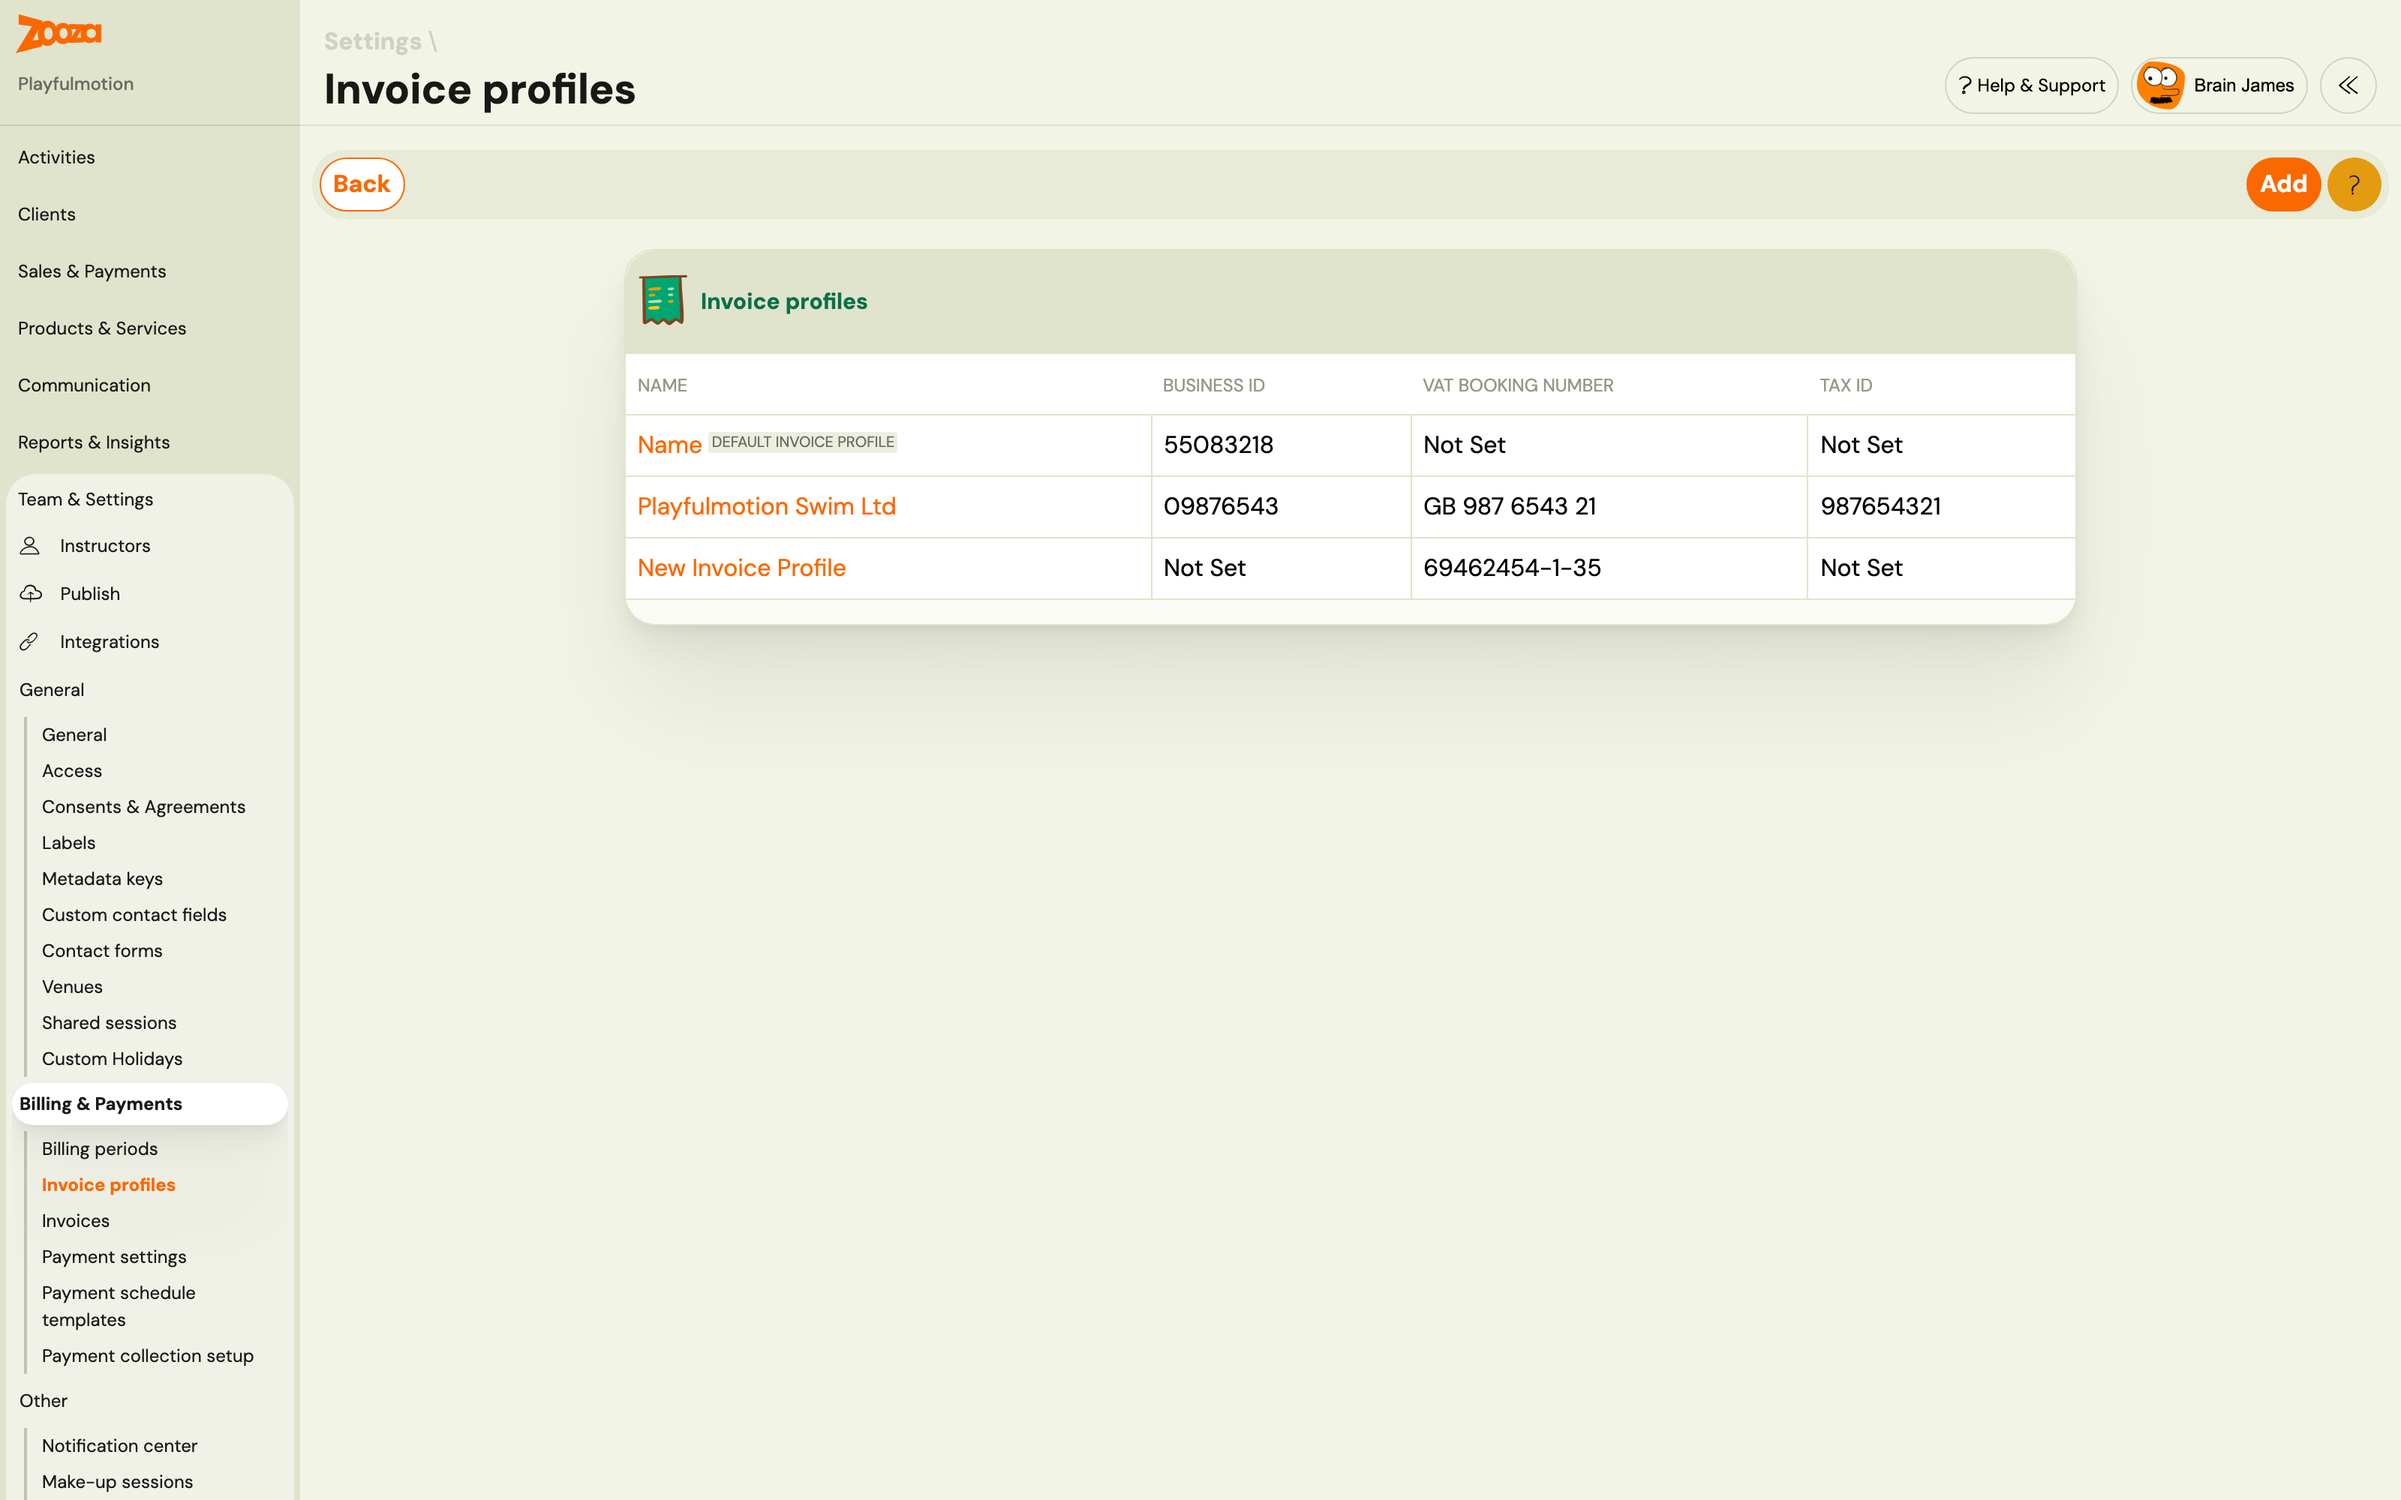
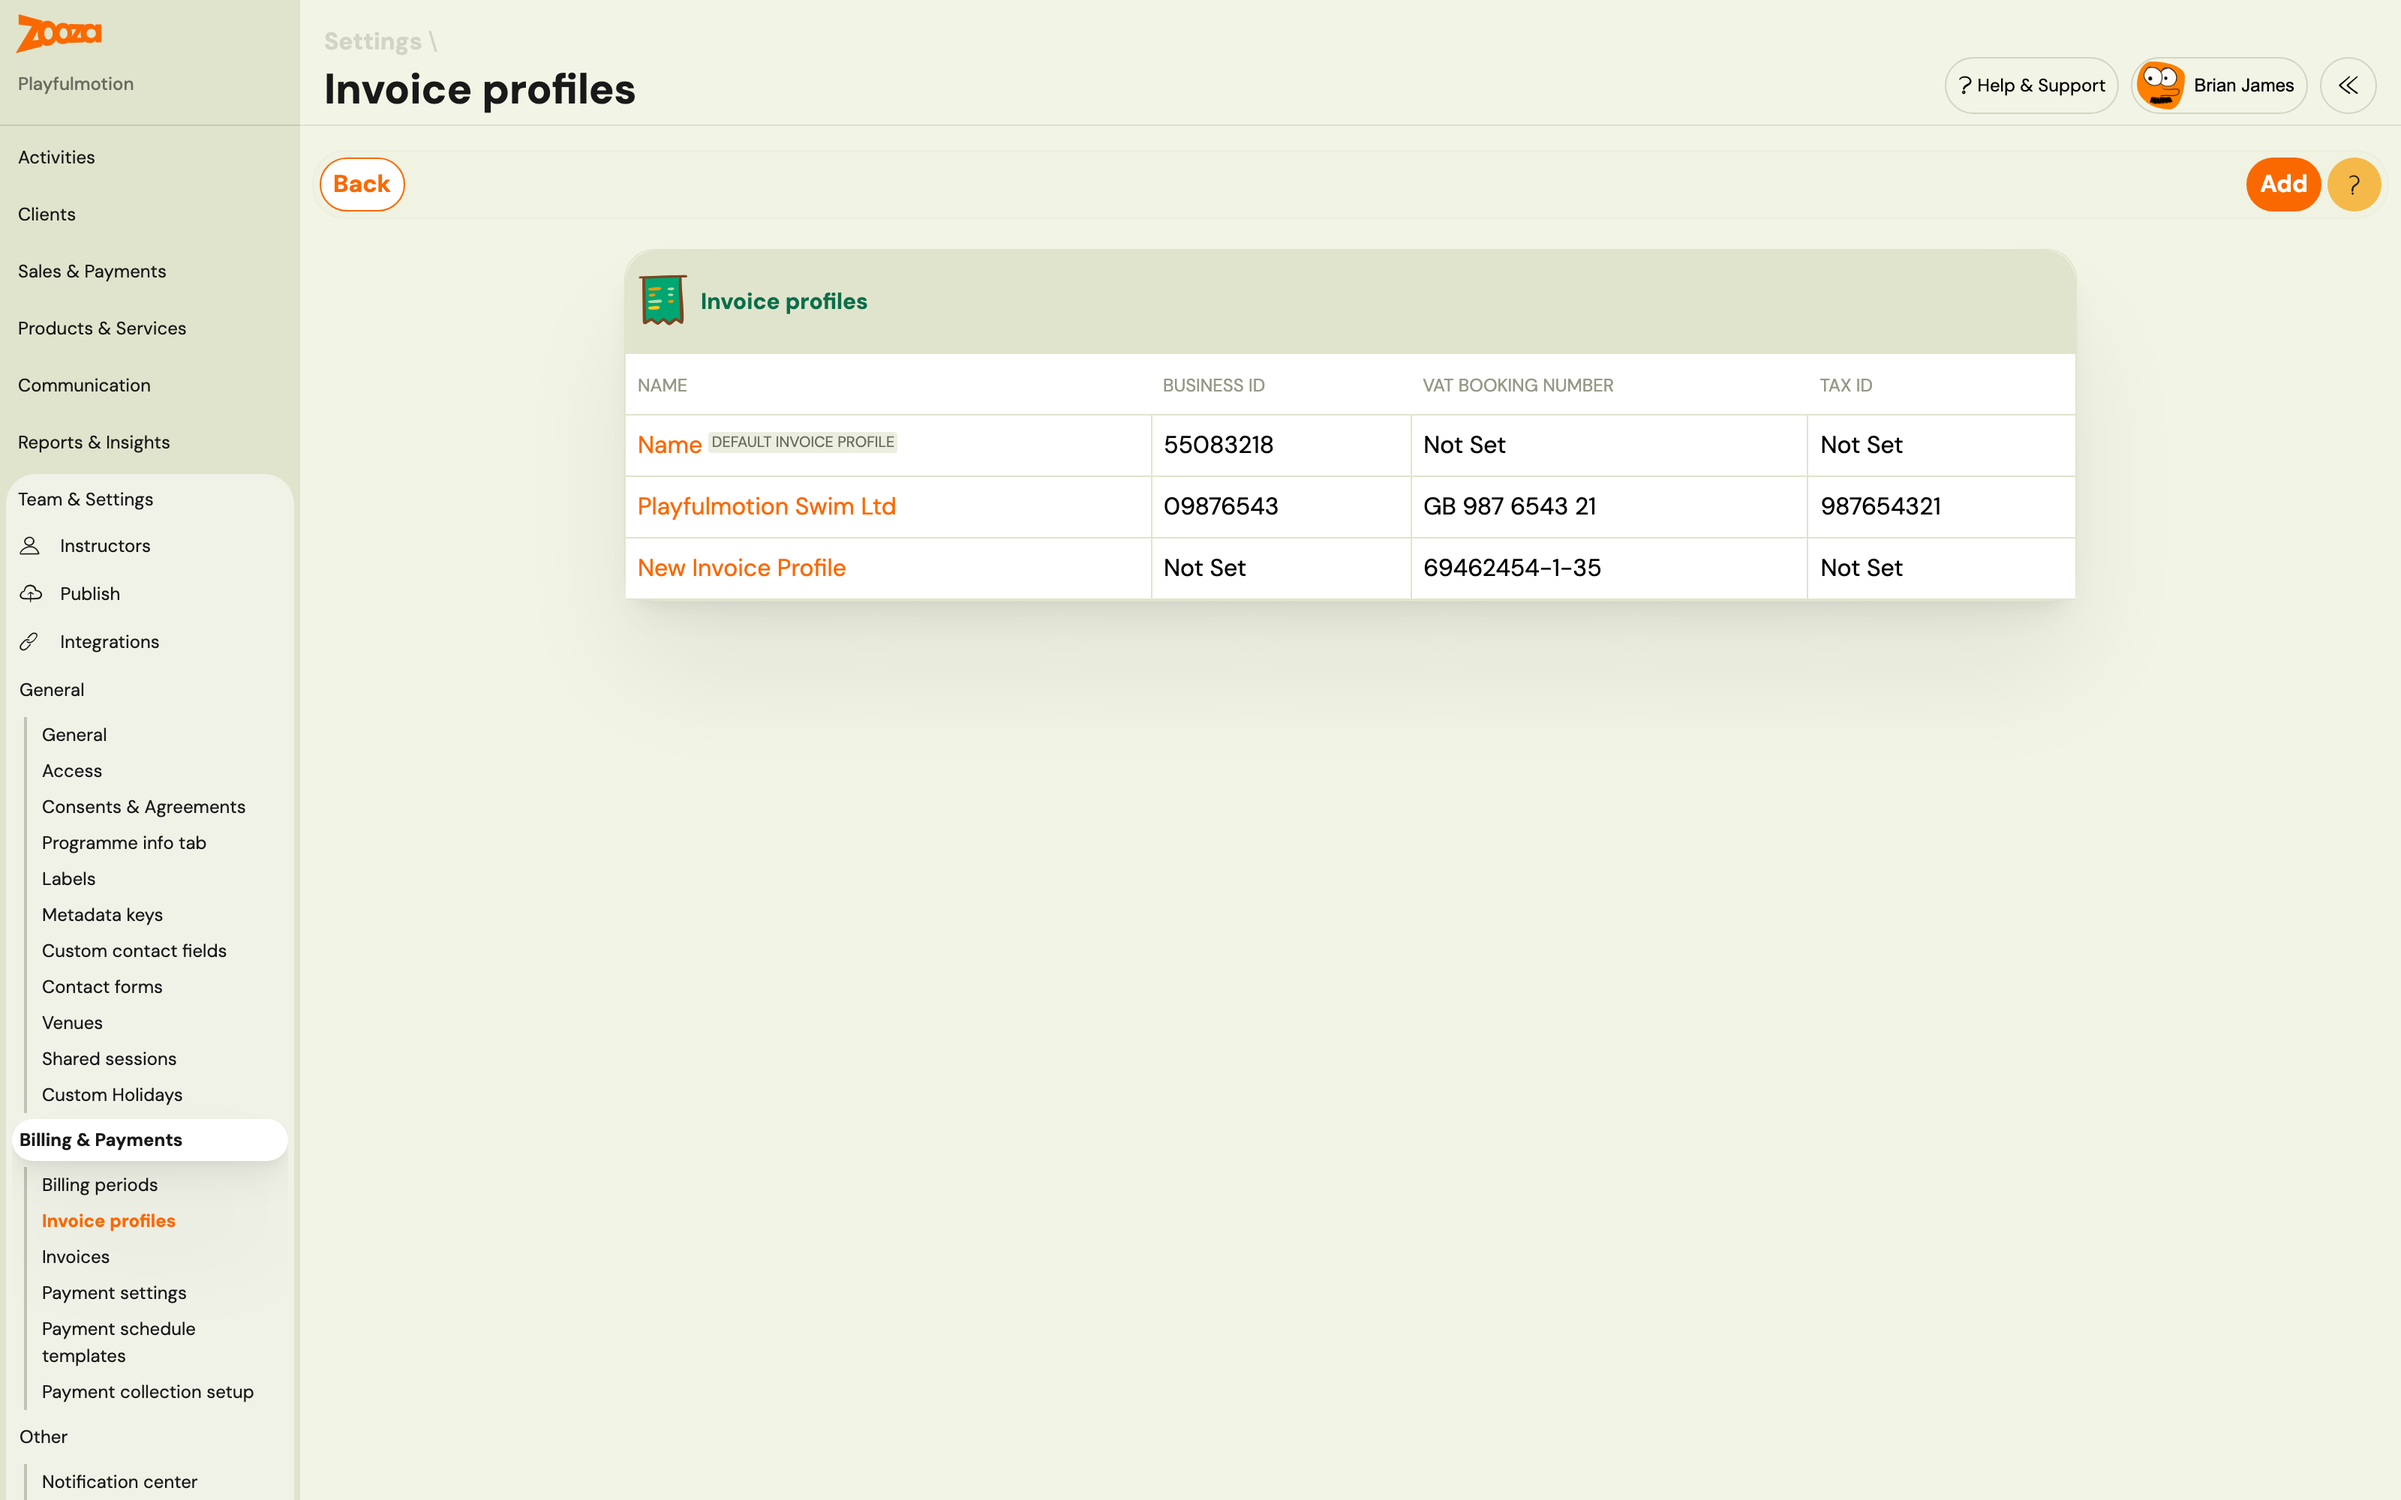
docs: reshoot the invoice profiles list, and three navigation paths corrected against the live menu
Replaced the invoice profiles screenshot from the live account and rewrote its
alt text to what the list actually shows - business ID, VAT booking number,
tax ID, and which profile is the default.

Three paths fixed now that the real menu is in front of me rather than being
remembered:

- "Settings - Billing" does not exist; it is Settings - Billing & Payments,
  and it has six entries, not the three the article listed.
- "Payments - Invoices" is Settings - Billing & Payments - Invoices.
- "Allow refund requests" is a field on Settings - General, not a subpage of
  it. That one was mine, written last week from the strings.

Also removed a screenshot that had been sitting under "Where to find billing
settings" showing the Invoice Line Types panel - wrong picture, wrong section,
and its alt text described a screen it was not. The menu list now carries that
section instead, which is what the reader needed from it anyway.

check_nav is down to one cue, the entry passes route the owner has already
confirmed is real.

Changed region(s): [[0.0, 0.558, 0.125, 0.992], [0.25, 0.403, 0.875, 0.434], [0.9688, 0.093, 1.0, 0.155]]

diff --git a/content/setup/billing-and-invoicing.md b/content/setup/billing-and-invoicing.md
@@ -11,7 +11,7 @@ status: "published"
 source_legacy_path: "legacy/html/billing-settings.html"
 source_language: "en"
 needs_screenshot_replacement: true
-last_converted: "2026-10-17"
+last_converted: "2026-11-06"
 related_articles: ["invoice-profiles-and-bank-accounts", "invoice-number-series", "invoice-profile-overrides", "invoicing-overview", "szamlazz-invoices", "fakturoid-invoices", "xero-integration"]
 ---
 
@@ -24,15 +24,14 @@ This guide explains how invoicing works in Zooza — when invoices are generated
 
 ## Where to find billing settings
 
-Go to **Settings** → **Billing**.
-
-![Settings page with Billing tile highlighted](../../assets/images/billing-and-invoicing-01.png)
-
-The Billing page has three sections:
+Go to **Settings → Billing & Payments**. It holds, in menu order:
 
 1. **Billing periods** — the term blocks you bill against.
 2. **Invoice profiles** — your legal entities and their bank accounts.
-3. **Invoices** and **Payments** — the generated documents and the money received.
+3. **Invoices** — the generated documents.
+4. **Payment settings** — how long clients have to pay before a booking is marked unpaid.
+5. **Payment schedule templates** — the instalment plans you offer.
+6. **Payment collection setup** — the guided flow for card, direct debit and bank transfer.
 
 ## Automatic invoice generation
 
@@ -62,7 +61,7 @@ An **invoice profile** is a legal entity — company name, address, Business ID,
 
 Go to **Settings → Billing & Payments → Invoice profiles** to manage both.
 
-![Invoice profiles list showing two legal entities with the default profile badge](../../assets/images/invoice-profiles-list.png)
+![The Invoice profiles list: each profile with its business ID, VAT booking number and tax ID, one marked as the default](../../assets/images/invoice-profiles-list.png)
 
 - The **default invoice profile** is used whenever nothing more specific is set. It cannot be deleted.
 - Add another profile when you invoice under a second legal entity.
@@ -131,7 +130,7 @@ After an invoice is generated, you can edit it by clicking the pencil icon next 
 
 Downloading invoices one at a time is the slow way, and it is what most people find first. There is a bulk route.
 
-Go to **Payments → Invoices**, filter down to the period you need — created-date range, billing period, invoice profile — and then use the actions at the top of the list:
+Go to **Settings → Billing & Payments → Invoices**, filter down to the period you need — created-date range, billing period, invoice profile — and then use the actions at the top of the list:
 
 | You want | Use |
 |---|---|

diff --git a/content/faq/administrative-refund-faq.md b/content/faq/administrative-refund-faq.md
@@ -11,7 +11,7 @@ status: "published"
 source_legacy_path: ""
 source_language: "en"
 needs_screenshot_replacement: false
-last_converted: "2026-10-30"
+last_converted: "2026-11-06"
 related_articles: ["stripe-payments-faq", "payments-and-billing-faq", "cancellation-reasons", "edit-payment-on-booking", "scheduled-registration-cancellation"]
 ---
 
@@ -68,8 +68,8 @@ No. Once recorded, an administrative refund cannot be deleted. If you made an er
 
 ## Can clients ask for a refund themselves?
 
-Yes, if you let them. **Settings → General → Allow refund requests** lets a client
-request a refund when they cancel an eligible session. It is off unless you turn it on.
+Yes, if you let them. **Allow refund requests**, on **Settings → General**, lets a client request a
+refund when they cancel an eligible session. It is off unless you turn it on.
 
 **A request does not move any money.** It is a conversation with a record, not an
 automatic payout — read that twice before switching it on, because the wording matters
